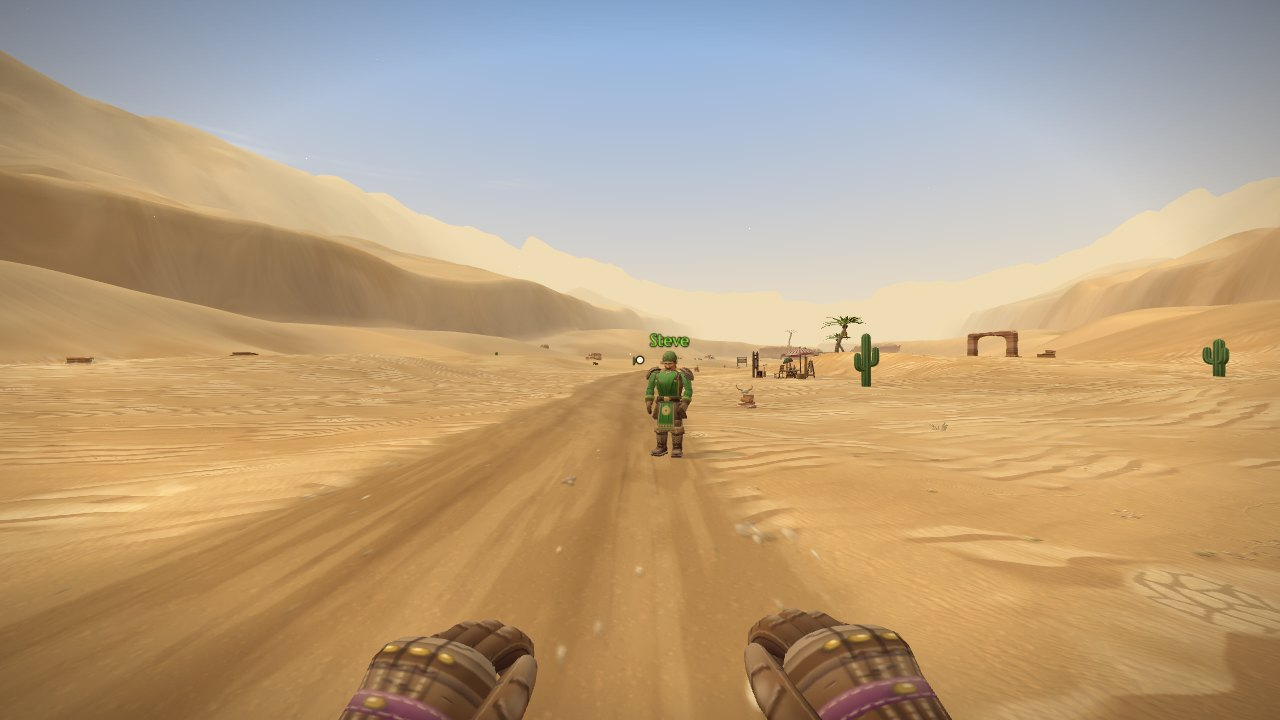
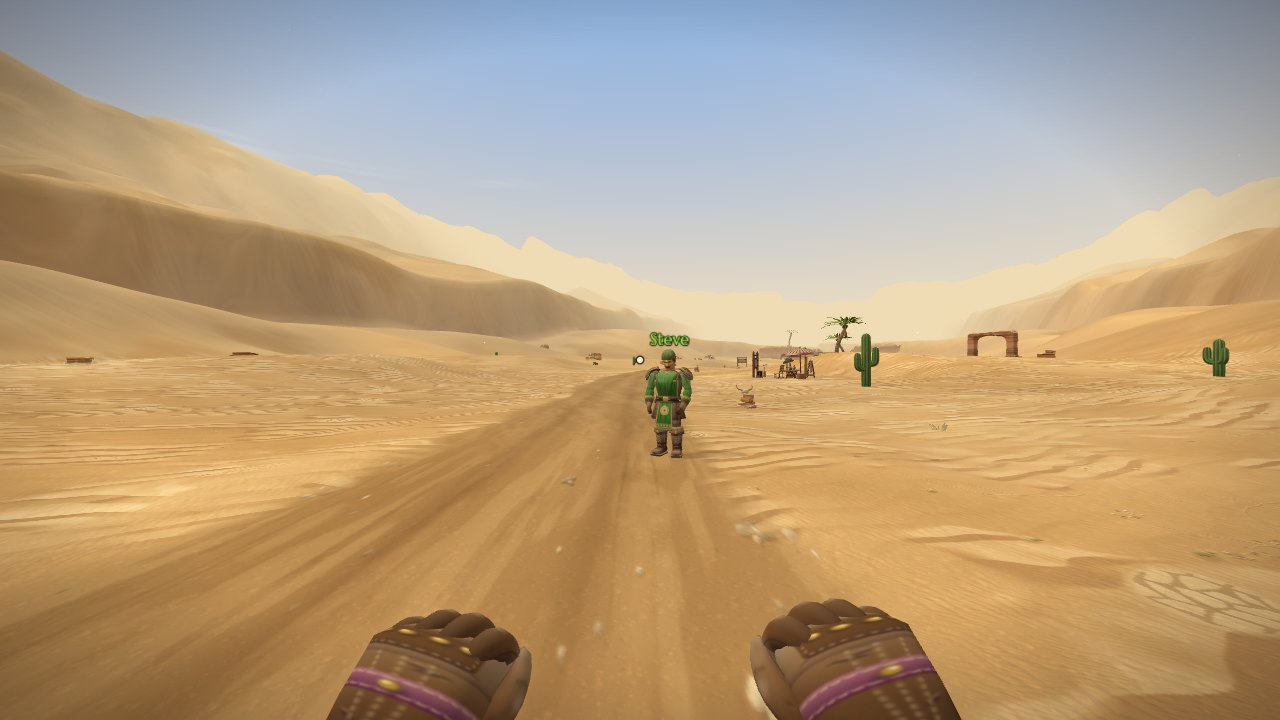
Faces and hands: fixes from the before/after review; README screenshots
Faces
- The Dealer's pencil mustache sits between his nose and lip with its tips
  flicked up (along the lip it read as a second mouth).
- The hollow under the cheekbone is shallower and broader, and its paint
  lighter: on the shaded side of the face it read as a smudge.
- One soft light down the nose instead of a hot stripe from the brows.
- Dark skin: a warmer cheekbone light, and a woman's lower lip a touch
  lighter, so crew 5's mouth still reads at a distance.
- The neck's paint starts at the head's tone (no line round the neck).
- Beards' top edges sink into the skin (they caught the sun as a white
  line); the goatee tapers to a point instead of a box.
- The collar tucks in under itself and sits snug on a woman's neck: no gap
  to see the sky through.

Hands
- The strap on a glove is a plain band across the back with one stud (its
  stitching read as a sticker); the fingers get a middle-joint crease.
- The Repo Man's work gloves: clearer fingers and one crease over the
  knuckles instead of stepped creases and stitch dashes.

Tools and tests
- Preview close-ups pose a player's hands as the game does at rest.
- The desktop test starts backToMenu without waiting on it: the page
  reloads, and its context could go before the answer came back.
- README screenshots retaken.

Claude-Session: https://claude.ai/code/session_01UJ1k7awXb6SUo5hkgmHutv

Changed region(s): [[0.5625, 0.825, 0.75, 1.0], [0.25, 0.825, 0.4375, 1.0], [0.5, 0.4583, 0.5625, 0.6111]]

diff --git a/client/js/paint/characters.js b/client/js/paint/characters.js
@@ -689,9 +689,9 @@ function paintHead(g, r, S, rnd) {
       P(sp([[13.5, 6], [14.8, -2], [16.2, -10], [36, -10], [36, 6]]), T.cool, 0.1, 6);
       // the cheekbone: a lit teardrop on the modeled bump, out and down from the eye
       const fy = fem ? 0.6 : 0;
-      P(sp([[4.9, -2.4 + fy], [7.6, -2.0 + fy], [9.9, -2.8 + fy], [10.3, -4.2 + fy], [8.4, -5.0 + fy], [5.9, -4.4 + fy]]), T.light, 0.34 * lit(s) * acc, 5);
+      P(sp([[4.9, -2.4 + fy], [7.6, -2.0 + fy], [9.9, -2.8 + fy], [10.3, -4.2 + fy], [8.4, -5.0 + fy], [5.9, -4.4 + fy]]), mix(T.light, T.hi, T.dark), 0.34 * lit(s) * acc + 0.14 * T.dark, 5);
       // under it, a hollow running down to the jaw corner
-      P(sp([[5.6, -4.6], [8.8, -3.6], [10.2, -6.5], [11, -10.4], [8.4, -10.2], [6.2, -7.6]]), T.shadow, (fem ? 0.08 : 0.14) * (1.25 - 0.25 * lit(s)), 5);
+      P(sp([[5.6, -4.6], [8.8, -3.6], [10.2, -6.5], [11, -10.4], [8.4, -10.2], [6.2, -7.6]]), T.shadow, (fem ? 0.05 : 0.08) * (1.25 - 0.25 * lit(s)), 8);
       // the eye socket: a soft rosy pool from the brow down under the eye
       P(sp([[1.45, 2.3], [3.9, 2.8], [6.6, 2.3], [7.2, 0.2], [6.05, -1.3], [3.8, -1.6], [1.8, -0.9], [1.25, 0.6]]), mix(T.shadow, T.cool, 0.5), (fem ? 0.26 : 0.42) * (hatShade ? 0.85 : 1), 2.2);
       // the brow ridge's lit top
@@ -707,7 +707,7 @@ function paintHead(g, r, S, rnd) {
     const top = L.hair === 'bald' ? 14 : 6.0;
     P([[-7.4, top], [7.4, top], [8, 4.4], [6.2, 3.4], [1.4, 2.9], [-1.4, 2.9], [-6.2, 3.4], [-8, 4.4]], T.light, 0.42 * acc, 5);
     P([[-6, top - 0.6], [1.5, top - 0.6], [1.0, 4.5], [-1, 3.7], [-5.6, 4.0]], T.hi, 0.28 * acc, 5);
-    B(-0.2, 1.9, 0.8, 1.2, T.light, 0.42 * acc, 0.25);                        // between the brows
+    B(-0.2, 1.9, 0.8, 1.2, T.light, 0.22 * acc, 0.25);                        // between the brows
     B(0, 0.9, 0.9, 0.7, T.blush, 0.25, 0.3);                                   // the notch under them faces down: warm
     if (S.hat === 'hood') {
       // in the hood's shade from the brows up over the crown, and down the sides (the eyes, painted later, still glint)
@@ -716,8 +716,8 @@ function paintHead(g, r, S, rnd) {
       for (const s of [-1, 1]) P([[s * 9, 10], [s * 36, 10], [s * 36, -6], [s * 9, -6]], T.deep, 0.25, 6);
     }
     // the nose: a lit bridge down to a lit, warm tip; nostril wings; one soft shadow tucked under it
-    P(fem ? [[-0.7, 0.4], [0.35, 0.4], [0.45, -3.6], [-0.75, -3.8]] : [[-1.0, 1.8], [0.45, 1.8], [0.55, -2.6], [0.6, -4.0], [-0.9, -4.2], [-1.2, -2.6]], T.hi, (fem ? 0.4 : 0.55) * acc, 1.6);
-    B(-0.25, yNoseTip + 0.25, 1.3, 0.9, T.hi, 0.66 * acc, 0.4);
+    P(fem ? [[-0.7, 0.4], [0.35, 0.4], [0.45, -3.6], [-0.75, -3.8]] : [[-1.0, 0.6], [0.45, 0.6], [0.55, -2.6], [0.6, -4.0], [-0.9, -4.2], [-1.2, -2.6]], T.hi, (fem ? 0.28 : 0.34) * acc, 1.6);
+    B(-0.25, yNoseTip + 0.25, 1.3, 0.9, T.hi, 0.45 * acc, 0.4);
     B(-0.45, yNoseTip + 0.5, 0.45, 0.32, T.hi, 0.2, 0.3);
     B(0.1, yNoseTip - 0.3, 1.25, 0.6, warm, fem ? 0.32 : 0.26, 0.3);
     for (const s of [-1, 1]) {
@@ -740,8 +740,8 @@ function paintHead(g, r, S, rnd) {
       // two filled lips in her own tones: a darker upper lip, a fuller lower one with a soft glint
       const fillP = (pts, c, a) => { g.save(); g.filter = 'blur(0.7px)'; g.globalAlpha = a; K.poly(pts); g.fillStyle = c; g.fill(); g.restore(); };
       fillP([[-mw, yM + 0.05], [-mw * 0.55, yM + 0.62], [-0.3, yM + 0.44], [0, yM + 0.56], [0.3, yM + 0.44], [mw * 0.55, yM + 0.62], [mw, yM + 0.05], [mw * 0.4, yM - 0.06], [0, yM - 0.03], [-mw * 0.4, yM - 0.06]], mix(T.deep, '#9a3444', 0.35), 0.92);
-      fillP([[-mw * 0.9, yM - 0.06], [0, yM - 0.1], [mw * 0.9, yM - 0.06], [mw * 0.55, yM - 0.72], [0, yM - 0.9], [-mw * 0.55, yM - 0.72]], mix(T.lip, '#b04852', 0.3), 0.92);
-      B(-0.35, yM - 0.42, 0.65, 0.2, T.hi, 0.4, 0.4);
+      fillP([[-mw * 0.9, yM - 0.06], [0, yM - 0.1], [mw * 0.9, yM - 0.06], [mw * 0.55, yM - 0.72], [0, yM - 0.9], [-mw * 0.55, yM - 0.72]], mix(mix(T.lip, '#b04852', 0.3), '#c27a70', 0.35 * T.dark), 0.92);
+      B(-0.35, yM - 0.42, 0.65, 0.2, T.hi, 0.4 + 0.3 * T.dark, 0.4);
       St([[-mw, yM + 0.05], [-mw * 0.4, yM - 0.04], [0, yM - 0.01], [mw * 0.4, yM - 0.04], [mw, yM + 0.05]], 1.7, 1.3, mix(T.deep, '#4a1a1e', 0.5), 0.8);
       for (const s of [-1, 1]) B(s * mw * 1.05, yM + 0.1, 0.28, 0.28, T.deep, 0.4, 0.3);
       B(0, yM - 1.4, mw * 0.6, 0.45, T.shadow, 0.3, 0.3);
@@ -785,7 +785,7 @@ function paintHead(g, r, S, rnd) {
     // a little light (beards and goatees are modeled sheets that sample the face above the jaw line)
     const [, yJ] = F(0, yJaw - 0.4);
     clipRect(g, r.x, yJ, r.w, r.y + r.h - yJ, () => {
-      gradV(g, r.x, yJ, r.w, r.y + r.h - yJ, [[0, mix(T.base, T.shadow, 0.55)], [0.3, mix(T.base, T.shadow, 0.3)], [1, mix(T.base, T.shadow, 0.4)]]);
+      gradV(g, r.x, yJ, r.w, r.y + r.h - yJ, [[0, mix(T.base, T.shadow, 0.32)], [0.12, mix(T.base, T.shadow, 0.45)], [0.35, mix(T.base, T.shadow, 0.3)], [1, mix(T.base, T.shadow, 0.4)]]);
       weave(g, r.x, yJ, r.w, r.y + r.h - yJ, T.base, rnd, { a: 0.035, len: [2, 4], dir: 0.3 });
       B(0, yJaw - 5.5, 2.6, 2.4, T.light, 0.2);
     });
@@ -853,19 +853,20 @@ function facialHair(g, K, S, T, rnd) {
   const L = S.look, f = L.facial;
   const topOf = tab => x => K.yOf(lerpTable(tab, Math.abs(x) / FACE_ARC, 1));
   if (f === 'mustache') paintMustache(g, K, L.hairColor, T, { line: MUSTACHES.mustache });
-  // a card sharp's pencil mustache: a thin line hugging the top of the upper lip out past the corners,
-  // parted under the nose (a block under the nose would read as something else entirely)
+  // a card sharp's pencil mustache: a thin line halfway between the nose and the lip, parted under the
+  // nose, its tips flicked up (a block under the nose would read as something else entirely, and a line
+  // on the lip as a second mouth)
   if (f === 'pencil') {
     const yM = K.yOf(-0.047), ink = mix(shadowOf(L.hairColor, 0.1), '#3a2a22', 0.3);
-    for (const s of [-1, 1]) { const pts = [[s * 0.6, yM + 1.0], [s * 1.5, yM + 1.02], [s * 2.4, yM + 0.78], [s * 3.2, yM + 0.5]]; K.S(pts.map(([x, y]) => [x, y - 0.3]), 3.4, 1, T.deep, 0.22); K.S(pts, 3.6, 0.9, ink, 0.95); }
-    K.B(0, yM + 1.0, 0.5, 0.35, T.light, 0.3);   // bare skin between the halves
+    for (const s of [-1, 1]) { const pts = [[s * 0.55, yM + 1.55], [s * 1.5, yM + 1.6], [s * 2.4, yM + 1.45], [s * 3.25, yM + 1.7]]; K.S(pts.map(([x, y]) => [x, y - 0.3]), 3.4, 1, T.deep, 0.22); K.S(pts, 3.6, 0.9, ink, 0.95); }
+    K.B(0, yM + 1.55, 0.5, 0.35, T.light, 0.3);   // bare skin between the halves
   }
   if (f === 'goatee') {
     // a warm grey tuft on the chin and down the neck front, where the modeled wedge samples it
     const hc = '#a69690', ink = { gap: '#5c4a4a', lit: '#d6cac4', mids: [hc, '#ae9e98', '#9a8a84'] };
-    g.save(); K.poly([[-4.6, -8.8], [4.6, -8.8], [5.0, -12], [3.4, -17], [0, -19.5], [-3.4, -17], [-5.0, -12]]); g.clip();
-    K.B(0, -13, 5, 7, hc, 0.95, 0.6);
-    beardClumps(g, K, rnd, { x0: -4.4, x1: 4.4, yTop: topOf(GOATEE_TOP), yBot: () => -19, n: 4, w: [2.4, 3.4], pull: 0.55, ink });
+    g.save(); K.poly([[-4.0, -8.8], [4.0, -8.8], [4.3, -12], [3.0, -17], [0, -19.5], [-3.0, -17], [-4.3, -12]]); g.clip();
+    K.B(0, -13, 4.4, 7, hc, 0.95, 0.6);
+    beardClumps(g, K, rnd, { x0: -3.8, x1: 3.8, yTop: topOf(GOATEE_TOP), yBot: () => -19, n: 4, w: [2.4, 3.4], pull: 0.55, ink });
     g.restore();
     paintMustache(g, K, hc, T, { droop: 1.4, width: 0.95 });
   }
@@ -1207,12 +1208,13 @@ function paintArm(g, r, S, rnd) {
       bandGrad(g, r, av(top - 0.025), av(top), rgba(skin.deep, 0.0), rgba(skin.deep, 0.45));   // the roll's shadow on the skin
       bandGrad(g, r, v1, av(LM.roll + 0.04), rgba(INK, 0.3), rgba(INK, 0));
     }
-    // hands: bare, or big gloves with a flared gauntlet cuff. people.js models the fingers: below the
-    // wrist the splits between them run down the back at u 1/8 1/4 3/8 and the palm at u 5/8 3/4 7/8,
-    // each finger's crown at u 1/16 3/16 5/16 7/16; the tips end at the bottom (v 0).
+    // hands: bare, or big gloves with a flared gauntlet cuff. Below the wrist people.js lays the hand's
+    // columns evenly across it (and models a bare hand's fingers): the splits between the fingers run down
+    // the back at u 1/8 1/4 3/8 and the palm at u 5/8 3/4 7/8, each finger's crown at u 1/16 3/16 5/16
+    // 7/16; the tips end at the bottom (v 0).
     const CROWNS = [0.0625, 0.1875, 0.3125, 0.4375];
-    const splits = (deep, wB, wP, aB, aP) => {
-      for (const u of [0.125, 0.25, 0.375]) stroke(g, [[U(u), AV(-0.688)], [U(u), V(0.004)]], wB[0], wB[1], deep, aB);
+    const splits = (deep, wB, wP, aB, aP, from = -0.688) => {
+      for (const u of [0.125, 0.25, 0.375]) stroke(g, [[U(u), AV(from)], [U(u), V(0.004)]], wB[0], wB[1], deep, aB);
       for (const u of [0.625, 0.75, 0.875]) stroke(g, [[U(u), AV(-0.684)], [U(u), V(0.004)]], wP[0], wP[1], deep, aP);
     };
     if (!gloved) {
@@ -1246,15 +1248,16 @@ function paintArm(g, r, S, rnd) {
           const px0 = U(0.53), px1 = U(0.97), py0 = AV(-0.6), py1 = V(0.0);
           clipRect(g, px0, py0, px1 - px0, py1 - py0, () => leather(g, r, px0, py0, px1 - px0, py1 - py0, shadowOf(gl, 0.25), rnd, { creases: 0, scuffs: 4, light: 0.25 }));
           stitches(g, [[px0, py1], [px0, py0], [px1, py0], [px1, py1]], '#5a4020', 0.6);
-          for (let i = 0; i < 3; i++) { const y = AV(-0.6 - i * 0.022), x = U(0.08 + 0.1 * i); sfold(g, [[x, y], [x + 9, y + range(rnd, -1.5, 1.5)]], 3, gl, 0.75, { dark: 0.55 }); }
-          splits(deep, [1, 2.2], [1, 2], 0.6, 0.5);
-          for (const u of [0.125, 0.25, 0.375]) stitches(g, [[U(u) + 1.6, AV(-0.684)], [U(u) + 1.6, V(0.01)]], '#5a4020', 0.55);
-        } else splits(deep, [1.2, 3.2], [1.4, 3], 0.8, 0.7);
+          stroke(g, curve(U(0.04), AV(-0.668), U(0.46), AV(-0.668), 1.5, 5), 1.6, 1.6, deep, 0.5);   // the crease over the knuckles
+          splits(deep, [1.6, 2.6], [1.4, 2.4], 0.75, 0.6);
+        } else splits(deep, [1.2, 3.2], [1.4, 3], 0.8, 0.7, -0.7);
         for (const u of CROWNS) stroke(g, [[U(u) - 0.8, AV(-0.69)], [U(u) - 0.8, V(0.03)]], 3, 2, lt, 0.28);   // each finger lit along its crown
+        if (!work) for (const u of CROWNS) stroke(g, curve(U(u) - 4, AV(-0.724), U(u) + 4, AV(-0.724), 1.2, 3), 1.3, 1.3, deep, 0.5);   // the middle joints
         if (!work) stroke(g, curve(U(0.58), AV(-0.676), U(0.92), AV(-0.676), 1.5, 4), 2.2, 2.2, deep, 0.6);   // the palm's crease
         bandGrad(g, r, 0, 0.03, rgba(INK, 0.22), rgba(INK, 0));
         if (!work) {
-          // a padded knuckle guard with four brass studs and a strap in your colour, like your own first-person gloves
+          // a padded knuckle guard with four brass studs and a strap in your colour across the back, like your own
+          // first-person gloves
           const kx0 = U(0.02), kx1 = U(0.46), ky0 = AV(-0.657), ky1 = AV(-0.687);
           clipRect(g, kx0, ky0, kx1 - kx0, ky1 - ky0, () => {
             leather(g, r, kx0, ky0, kx1 - kx0, ky1 - ky0, shadowOf(gl, 0.3), rnd, { creases: 1, scuffs: 2, light: 0.5 });
@@ -1263,13 +1266,9 @@ function paintArm(g, r, S, rnd) {
           stitches(g, [[kx0, ky0 + 1], [kx1, ky0 + 1]], '#e2c898', 0.5);
           bandGrad(g, r, av(-0.695), av(-0.687), rgba(INK, 0), rgba(INK, 0.3));
           for (const u of CROWNS) rivet(g, U(u), AV(-0.672), 1.8, BRASS);
-          const sy0 = AV(-0.608), sy1 = AV(-0.628);
-          clipRect(g, U(0.07), sy0, U(0.4) - U(0.07), sy1 - sy0, () => {
-            g.fillStyle = c; g.fillRect(U(0.07), sy0, U(0.4) - U(0.07), sy1 - sy0);
-            gradV(g, U(0.07), sy0, U(0.4) - U(0.07), sy1 - sy0, [[0, rgba('#fff0c8', 0.3)], [1, rgba(INK, 0.35)]]);
-          });
-          stitches(g, [[U(0.07), sy0 + 1.2], [U(0.4), sy0 + 1.2]], '#f0dca8', 0.5); stitches(g, [[U(0.07), sy1 - 1.2], [U(0.4), sy1 - 1.2]], '#f0dca8', 0.5);
-          rivet(g, U(0.25), (sy0 + sy1) / 2, 2.2, BRASS);
+          const s0 = av(-0.636), s1 = av(-0.604);
+          clipRect(g, U(0), RY(r, s1), U(0.5) - U(0), RY(r, s0) - RY(r, s1), () => { band(g, r, s0, s1, shadowOf(c, 0.15), 1); bandGrad(g, r, s0, s1, rgba('#fff0c8', 0.3), rgba(INK, 0.35)); });
+          rivet(g, U(0.25), AV(-0.62), 2.4, BRASS);
         } else stitches(g, [[U(0.12), AV(-0.6)], [U(0.38), AV(-0.6)]], '#5a4020', 0.6);
       });
       // the gauntlet: a rolled rim flaring over the forearm, a band of your color, riveted, tapering to the wrist

diff --git a/client/js/people.js b/client/js/people.js
@@ -3,7 +3,7 @@
 //
 // Style: WoW Classic humans with a dash of OSRS chunk: big shoulders, a barrel chest, a leather
 // jerkin skirt with a tabard in the player's color hanging front and back, thick forearms and big
-// gloves with modeled fingers and a thumb laid along the first one (arms bowed at rest, knuckles forward), laced knee boots with a flared turned-down cuff cut into riveted tabs on a heavy separate sole with a heel block, padded knee guards, a bedroll on
+// gloves, padded mitts with their fingers painted, and a thumb laid along the first finger (bare hands get modeled fingers; arms bowed at rest, knuckles forward), laced knee boots with a flared turned-down cuff cut into riveted tabs on a heavy separate sole with a heel block, padded knee guards, a bedroll on
 // the back. Each person is ONE SkinnedMesh (one draw call + one in the shadow pass) on a 25-bone
 // skeleton, textured with ONE hand-painted 512×768 atlas from paint/characters.js. The face is
 // modeled (a broad blunt nose, a brow ridge arching over deep sockets, cheekbones, a jaw tapering
@@ -304,7 +304,7 @@ function faceRelief(th, dy, fem) {
   rr += (fem ? 0.0035 : 0.016) * gauss(dy - 0.047 + 0.008 * (a / 0.55) ** 2, 0.011) * gauss(th, 0.6);                        // brow ridge, arching down to the temples
   rr -= (fem ? 0.009 : 0.014) * gauss(dy - 0.024, 0.012) * gauss(a - 0.345, 0.185);                                          // eye sockets
   rr += (fem ? 0.009 : 0.013) * gauss(dy + (fem ? -0.004 : 0.0), 0.013) * gauss(a - 0.76, 0.24);                             // cheekbones
-  rr -= (fem ? 0.005 : 0.0095) * gauss(dy + 0.042, 0.015) * gauss(a - 0.86, 0.22);                                           // hollows under them
+  rr -= (fem ? 0.003 : 0.005) * gauss(dy + 0.045, 0.02) * gauss(a - 0.86, 0.26);                                             // hollows under them
   rr -= 0.009 * gauss(dy - 0.045, 0.028) * gauss(a - 1.08, 0.3);                                                             // temples
   rr += (fem ? 0.002 : 0.007) * gauss(dy + 0.072, 0.012) * gauss(a - 1.3, 0.24);                                             // square jaw corners
   return [fx * Math.max(0, Math.cos(th)), rr];
@@ -411,7 +411,7 @@ function headPartsOf(S) {
   }
   if (L.facial === 'goatee') {
     // a small tapered tuft hugging the chin
-    parts.push(...beardSurface(S, { thMax: 0.42, top: GOATEE_TOP, bot: a => -0.09 - 0.017 * (1 - (a / 0.42) ** 2), off1: 0.009, taper: 0.3, nu: 10 }));
+    parts.push(...beardSurface(S, { thMax: 0.36, top: GOATEE_TOP, bot: a => -0.095 - 0.022 * (1 - (a / 0.36) ** 1.5), off1: 0.009, taper: 0.6, nu: 10 }));
   }
   if (L.facial === 'mustache') parts.push(mustacheTube(S, MUSTACHES.mustache, 0.0145));
   if (S.shades) parts.push(...shadesParts());
@@ -422,7 +422,7 @@ function headPartsOf(S) {
 // A beard as a thick sheet over the jaw. u runs from the right sideburn round the front
 // to the left one; v from its top edge (top: [|th|, dy] table, unscaled) down to its
 // bottom edge (bot(|th|)). Below the chin it hangs free, tapering toward the point.
-function beardSurface(S, { thMax, top, bot, off0 = 0.003, off1 = 0.016, taper = 0.4, nu = 16 }) {
+function beardSurface(S, { thMax, top, bot, off0 = -0.001, off1 = 0.016, taper = 0.4, nu = 16 }) {
   const fem = S.look.female, CH = -0.088;
   const at = (u, v) => { const th = (0.5 - u) * 2 * thMax, a = Math.abs(th), dyT = lerpTable(top, a), dyB = bot(a); return [th, dyT + (dyB - dyT) * Math.pow(v, 0.9)]; };
   return slab((u, v) => {
@@ -692,8 +692,8 @@ function bodyParts(S, F) {
   // a rolled collar round the neck
   if (S.collar) {
     // a folded neckline: a low soft roll of cloth round the base of the neck
-    const prof = [[1.452, 0.0], [1.462, 0.7], [1.474, 1.0], [1.486, 0.75], [1.492, 0.3], [1.49, 0.0]];
-    const nk = S.look.female ? 0.86 : 1;
+    const prof = [[1.452, 0.0], [1.462, 0.7], [1.474, 1.0], [1.486, 0.75], [1.492, 0.3], [1.488, -0.9]];   // (the last row tucks inside the neck)
+    const nk = S.look.female ? 0.76 : 1;
     P.push(lathe(prof.map(([y, k], i) => ({ y, w: (0.086 + 0.016 * k) * nk, d: (0.082 + 0.014 * k) * nk, db: (0.084 + 0.016 * k) * nk, n: 2.1, cx: -0.004 + HX, v: 1 - i / (prof.length - 1) })), {
       seg: 18, reg: REG.collar, bones: p => { const t = sstep(1.46, 1.51, p[1]); return [[B.chest, 1 - t * 0.5], [B.neck, t * 0.5]]; },
     }));
@@ -1994,7 +1994,9 @@ const FOLK = {
   _repo: () => buildCharacter('#6b5640', { hatIndex: 0, skinIndex: 1, scale: 1.25 }),
 };
 // standing still at rest, the head straight, turned by a
-function still(make, a = 0) { const ch = make(); ch.driven = true; applyPose(ch, restPose()); return turned(ch.root, a); }
+// at rest as in the game (a player's hands rolled knuckles-forward; the town folk's arms left down, so
+// their hands stay in the close-up's frame)
+function still(make, a = 0) { const ch = make(), P = restPose(); ch.driven = true; if (!STANCE[ch.spec.outfit]) P.wtL = P.wtR = HAND_ROLL; applyPose(ch, P); return turned(ch.root, a); }
 function fpView(me, color = '#00E5FF') {
   const cam = new THREE.Group(), h = new Hands(cam, color);
   if (me.holding?.type === 'map') {   // a stand-in sheet: parchment and one road
